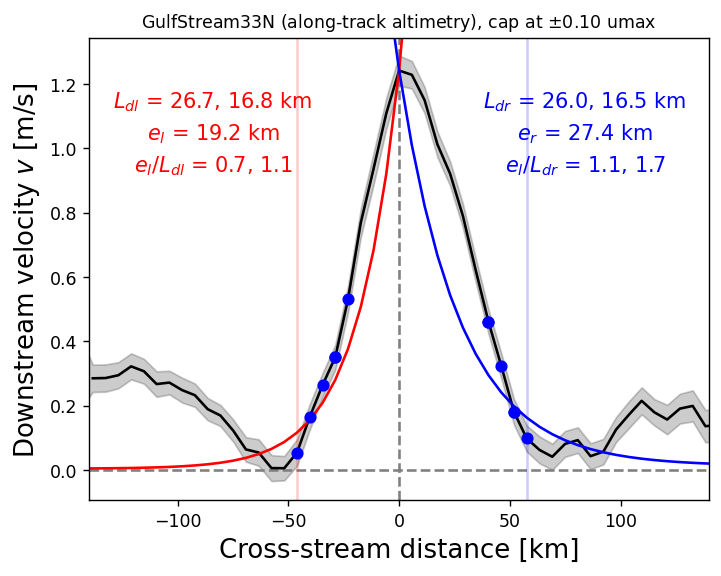
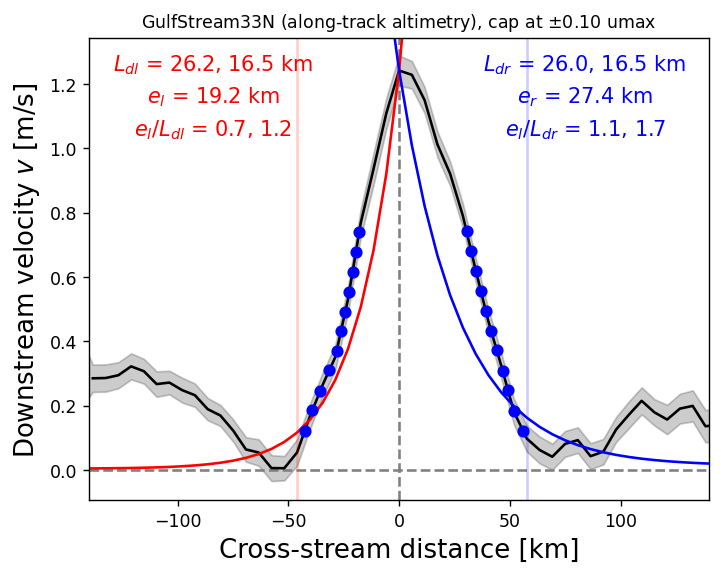
Improve resolution of fractional velocity points

diff --git a/proc/convert_jetprofiles.py b/proc/convert_jetprofiles.py
@@ -30,17 +30,16 @@ def nearfirst_decreasing(u, u0):
     """
     return u[np.where(u - u0 <= 0)[0][0]]
 
-
-def getLjfs(usauxl, usauxr, uscapL):
+def getLjfs(xsaux, usaux, usauxl, usauxr, uscapL):
     try:
         usfrL = nearfirst_decreasing(usauxr, uscapL)
-        Ljrf = xs[us==usfrL][0]
+        Ljrf = xsaux[usaux==usfrL][0]
     except IndexError:
         Ljrf = np.nan
 
     try:
         usflL = nearfirst_decreasing(np.flipud(usauxl), uscapL)
-        Ljlf = xs[us==usflL][0]
+        Ljlf = xsaux[usaux==usflL][0]
     except IndexError:
         Ljlf = np.nan
 
@@ -128,13 +127,13 @@ CORE_CONSTRAINT = True
 CAP_CENTER = False
 out_prefix = "../data/derived/"
 
-umaxfracLs = [0.5, 0.4, 0.3, 0.25, 0.2, 0.1]
-umaxfrac = 0.1 # Fraction of the core velocity to cap the fit at either side of the jet.
+umaxfracLs = [0.60, 0.55, 0.50, 0.45, 0.40, 0.35, 0.30, 0.25, 0.20, 0.15, 0.10]
+umaxfrac = 0.10 # Fraction of the core velocity to cap the fit at either side of the jet.
 
 AVGLR_ufrac = True
-umaxfrac_Ldlr = 0.5
+umaxfrac_Ldlr = 0.4
 nLdcap_avg = 1
-ACCjets_angdiff_thresh = 45 # [Degrees]
+ACCjets_angdiff_thresh = 45 # Maximum instantaneous stream rotation angle to include in time-average for the ADCP data [Degrees]
 
 names = ["GulfStream33N", "GulfStream34N", "GulfStream36N", "GulfStream37N", "GulfStream38N", "AgulhasCurrent", "EAC29S", "BrazilCurrent29S", "KuroshioCurrent25N", "KuroshioCurrent28p5N", "ustream_SAFjet_LMG.nc", "ustream_PFjet_LMG.nc", "ustream_SACCFjet_LMG.nc", "ustream_shelbreakjet_LMG.nc"]
 
@@ -155,7 +154,7 @@ else:
 
 ACCnames = ["SAFjet", "PFjet", "SACCFjet"]
 for name in names:
-    print(name)
+    print(name, "================================")
     if "synop" in name:
         SYNOP = True
     else:
@@ -274,23 +273,37 @@ for name in names:
     xlrtrim = (xltrim, xrtrim)
 
     # Also find the position of a fractional drop-off in velocity to compare with Ld.
+    # Make an interpolated jet profile just to get better reolution on the cutoff points.
+    xsmin = -np.maximum(-xs[0], xs[-1])
+    xsaux = np.linspace(xsmin, 0, num=1000)
+    xsaux = np.hstack((xsaux, np.flipud(-xsaux)[1:]))
+    usaux = np.interp(xsaux, xs, us, left=np.nan, right=np.nan)
+
+    usauxl, usauxr = usaux.copy(), usaux.copy()
+    nxhaux = np.where(xsaux==0)[0][0]
+    usauxl[nxhaux:] = np.nan
+    usauxr[:nxhaux] = np.nan
+
+    print("")
     Ljlfs, Ljrfs = dict(), dict()
     for umaxfracL in umaxfracLs:
         uscapL = usmax*umaxfracL
-        Ljlfi, Ljrfi = getLjfs(usauxl, usauxr, uscapL)
+        Ljlfi, Ljrfi = getLjfs(xsaux, usaux, usauxl, usauxr, uscapL)
         Ljlfs.update({umaxfracL:Ljlfi})
         Ljrfs.update({umaxfracL:Ljrfi})
+        print("%d%% umax left/right: %1.1f"%(umaxfracL*100, Ljlfi), "/", "%1.1f km"%Ljrfi)
+    print("")
 
     Ljl, Ljr, ypl, ypr = exfit_Lj_singleexp(xs, us, xlrtrim, umin=0.05, uctol=0.001, CAP_CENTER=CAP_CENTER, CORE_CONSTRAINT=CORE_CONSTRAINT)
 
     xlu, xru = Ljlfs[umaxfrac_Ldlr], Ljrfs[umaxfrac_Ldlr]
     if AVGLR_ufrac:
-        Ll, Lr = xs[near(xs, xlu)], xs[near(xs, xru)]
+        Ll, Lr = xsaux[near(xsaux, xlu)], xs[near(xs, xru)]
         fl, fr = np.logical_and(xs>Ll, xs<0), np.logical_and(xs>0, xs<Lr)
         Ldl_surf, Ldr_surf = np.nanmean(Ld_surf[fl]), np.nanmean(Ld_surf[fr])
         Ldl_flat, Ldr_flat = np.nanmean(Ld_flat[fl]), np.nanmean(Ld_flat[fr])
     else:
-        fl, fr = near(xs, xlu), near(xs, xru)
+        fl, fr = near(xsaux, xlu), near(xsaux, xru)
         Ldl_surf, Ldr_surf = Ld_surf[fl], Ld_surf[fr]
         Ldl_flat, Ldr_flat = Ld_flat[fl], Ld_flat[fr]
 
@@ -310,7 +323,6 @@ for name in names:
         xsclip = 140
 
     # Save Lj, Ld values for scatterplot.
-    # print(xltrim, xrtrim)
     if ds["lat"].ndim==1:
         lonn, latt = ds["lon"], ds["lat"]
     else:
@@ -330,7 +342,7 @@ for name in names:
 
     np.savez(out_prefix + name + ".npz", **npzout)
 
-    dyl, dyt = 0.1, 0.1
+    dyl, dyt = 0.1, 0.18
     fig, ax = plt.subplots()
     ax.axhline(y=0, color="gray", linestyle="dashed")
     ax.axvline(x=0, color="gray", linestyle="dashed")
@@ -348,9 +360,9 @@ for name in names:
     for umaxfracL in umaxfracLs:
         Ljlfi, Ljrfi = Ljlfs[umaxfracL], Ljrfs[umaxfracL]
         if np.isfinite(Ljlfi):
-            ax.plot(Ljlfi, us[xs==Ljlfi], marker="o", mfc="b", mec="b")
+            ax.plot(Ljlfi, usaux[xsaux==Ljlfi], marker="o", mfc="b", mec="b")
         if np.isfinite(Ljrfi):
-            ax.plot(Ljrfi, us[xs==Ljrfi], marker="o", mfc="b", mec="b")
+            ax.plot(Ljrfi, usaux[xsaux==Ljrfi], marker="o", mfc="b", mec="b")
 
     ax.text(0.2, 0.68+dyt, "$e_l$ = %.1f km"%Ljl, fontsize=12, transform=ax.transAxes, ha="center", color="r")
     ax.text(0.8, 0.68+dyt, "$e_r$ = %.1f km"%Ljr, fontsize=12, transform=ax.transAxes, ha="center", color="b")
